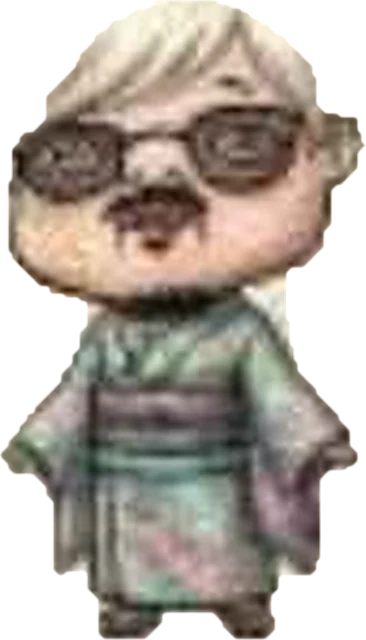
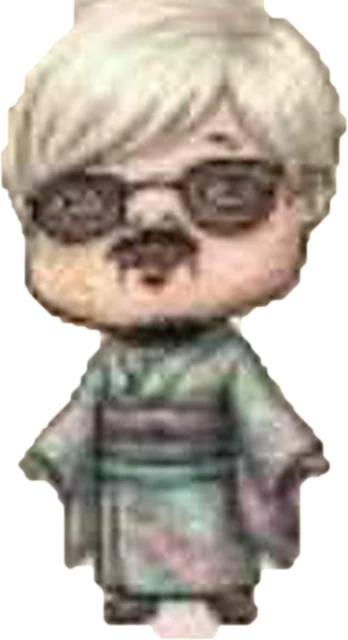
Gacha candidate detail view before choosing; fix Sakura kimono head cut-out
Claude-Session: https://claude.ai/code/session_01X9RpY9G117QWH6r3Rqz8Sf

diff --git a/index.html b/index.html
@@ -1033,6 +1033,17 @@ p, li, dd { text-wrap: pretty; }
 .invcard .ib .l{background:#06c755;color:#fff}
 .invcard .in{margin-top:10px;font-size:12.5px;font-weight:800;background:rgba(255,255,255,.22);border-radius:14px;padding:6px 8px;line-height:1.6}
 .invcard .nb{white-space:nowrap}
+
+.gxdet{position:fixed;inset:0;z-index:2147483000;background:rgba(10,6,20,.82);display:flex;align-items:center;justify-content:center;padding:16px}
+.gxdb{width:100%;max-width:340px;background:#26201c;border:2px solid #7a5ac0;border-radius:26px;padding:18px 16px 16px;text-align:center;color:#fff}
+.gxdi{position:relative;width:78%;aspect-ratio:1/1;margin:0 auto 6px;display:flex;align-items:center;justify-content:center}
+.gxdi img{max-width:100%;max-height:100%;object-fit:contain;filter:drop-shadow(0 6px 10px rgba(0,0,0,.5))}
+.gxdi .rkb{position:absolute;left:-4px;top:-4px}
+.gxdn{font-size:22px;font-weight:900;line-height:1.5;white-space:nowrap;overflow:hidden;text-overflow:ellipsis}
+.gxds{font-size:14px;font-weight:700;color:#d9c9ee;margin:2px 0 12px;line-height:1.6}
+.gxdb .btn.ghost{color:#fff;border:2px solid #8a7aa0;background:transparent}
+.gxdb .btn{display:block;width:100%;min-height:52px;margin-top:8px;font-size:17px}
+.gxc .gxi{cursor:pointer}
 </style>
 
 <div class="bg" aria-hidden="true"></div>
@@ -4245,7 +4256,7 @@ function gxOpen(a) {
   var base = pickChar0(a), pulls = gxPulls(a), cur = pickChar(a), ov = document.querySelector(".gxov"); if (ov) ov.remove();
   var cands = [base].concat(pulls).filter(function (q, x, ar) { return ar.indexOf(q) === x; }), left = gxCap(a) - pulls.length, tk = tkAvail(), NW = GX_NEW || []; GX_NEW = null;
   try { var rmv = pulls.length + 1 - cands.length, sk = a.seed >>> 0; ME.cp = ME.cp || {}; if (rmv > (ME.cp[sk] || 0)) { ME.fz = (ME.fz || 0) + rmv - (ME.cp[sk] || 0); ME.cp[sk] = rmv; meSave(); tk = tkAvail(); } } catch (er) {}
-  var h = '<div class="gxbox"><h3>キャラ替えガチャ</h3><p class="gxs">出たキャラのなかから、好きなものを選べます<br>ログインするたび、ガチャ券🎟が1枚<br>ダブりは融合して、券にかわります</p>' + gxActs(left, tk) + '<div class="gxg">' +
+  var h = '<div class="gxbox"><h3>キャラ替えガチャ</h3><p class="gxs">出たキャラをタップすると、くわしく見られます<br>ログインするたび、ガチャ券🎟が1枚<br>ダブりは融合して、券にかわります</p>' + gxActs(left, tk) + '<div class="gxg">' +
     cands.map(function (i, k) { return [i, k]; }).sort(function (x, y) { return ((NW.indexOf(y[0]) >= 0) - (NW.indexOf(x[0]) >= 0)) || ((CHR[y[0]].r || 0) - (CHR[x[0]].r || 0)) || (x[1] - y[1]); }).map(function (e) { var i = e[0], k = e[1], r = CHR[i].r || 0; return '<div class="gxc' + (i === cur ? ' sel' : '') + '"><div class="gxi">' + (NW.indexOf(i) >= 0 ? '<span class="newb">NEW</span>' : '') + '<img alt="" src="' + CHR[i].s + '"><span class="rkb r' + r + '">' + RKN[r] + '</span></div><small>' + (k === 0 ? '最初のキャラ' : k + '回目') + '</small><button type="button" class="btn ' + (i === cur ? '' : 'ghost') + '" data-gxpick="' + i + '"' + (i === cur ? ' disabled' : '') + '>' + (i === cur ? 'いまのキャラ' : 'このキャラにする') + '</button></div>'; }).join("") +
     '</div></div>';
   ov = xEl("div", "gxov", h); document.body.appendChild(ov);
@@ -4256,7 +4267,18 @@ document.addEventListener("click", function (e) {
   if (!a && T.closest("[data-gx]")) { try { a = GX_CUR = analyze(ME.A); } catch (er) {} }
   if (T.closest("[data-gx]")) { if (a) { try { document.querySelectorAll(".tkov").forEach(function (q) { q.remove(); }); } catch (er) {} gxOpen(a); } return; }
   if (T.closest("[data-gxclose]")) { var o = document.querySelector(".gxov"); if (o) o.remove(); return; }
-  var pk = T.closest("[data-gxpick]"); if (pk && a) { ME.gx = ME.gx || {}; ME.gx[a.seed >>> 0] = +pk.dataset.gxpick; meSave(); var o2 = document.querySelector(".gxov"); if (o2) o2.remove(); try { collect(a); } catch (er) {} gxRefresh(); return; }
+  if (T.closest("[data-gxdetx]")) { var dd = document.querySelector(".gxdet"); if (dd) dd.remove(); return; }
+  var gcd = T.closest(".gxc");
+  if (gcd && !T.closest("button") && a) {
+    var pb = gcd.querySelector("[data-gxpick]"), di = pb ? +pb.dataset.gxpick : -1, ci = CHR[di];
+    if (ci) {
+      var dr = ci.r || 0, dcur = (di === pickChar(a)), dov = document.createElement("div"); dov.className = "gxdet"; dov.setAttribute("role", "dialog");
+      dov.innerHTML = '<div class="gxdb"><div class="gxdi"><img alt="" src="' + ci.s + '"><span class="rkb r' + dr + '">' + RKN[dr] + '</span></div><div class="gxdn">' + esc(ci.n) + '</div><div class="gxds">' + (dcur ? '⭐ いま、メインのキャラです' : 'このキャラに、かえますか？') + '</div>' +
+        (dcur ? '' : '<button type="button" class="btn" data-gxpick="' + di + '">✅ このキャラにする</button>') + '<button type="button" class="btn ghost" data-gxdetx="1">もどる</button></div>';
+      document.body.appendChild(dov); return;
+    }
+  }
+  var pk = T.closest("[data-gxpick]"); if (pk && a) { try { var dd2 = document.querySelector(".gxdet"); if (dd2) dd2.remove(); } catch (er) {} ME.gx = ME.gx || {}; ME.gx[a.seed >>> 0] = +pk.dataset.gxpick; meSave(); var o2 = document.querySelector(".gxov"); if (o2) o2.remove(); try { collect(a); } catch (er) {} gxRefresh(); return; }
   var spb = T.closest("[data-gxspin]");
   if (spb && a) {
     var sgm = spb.dataset.gxspin === "sg", pulls = gxPulls(a);
